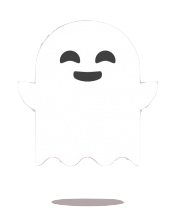
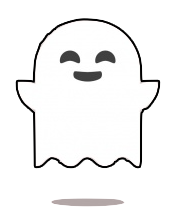
implement ghost  marker and add new image

Changed region(s): [[0.0877, 0.0841, 0.9357, 0.785], [0.4678, 0.729, 0.6725, 0.785], [0.6725, 0.729, 0.7602, 0.757]]

diff --git a/src/components/containers/Map.js b/src/components/containers/Map.js
@@ -103,6 +103,15 @@ const MapWithAMarkerClusterer = compose(
           />
           ))}
       </MarkerClusterer>
+      {
+        props.ghost &&
+        <Marker
+          icon={{
+            url: 'https://firebasestorage.googleapis.com/v0/b/life-chasing.appspot.com/o/ghost.png?alt=media&token=3454b5e8-1ff4-447b-9b04-06680a098bfb',
+          }}
+          position={{ lat: props.ghostPosition.latitude, lng: props.ghostPosition.longitude }}
+        />
+      }
     </GoogleMap>));
 
 
@@ -139,7 +148,7 @@ class Map extends Component {
 
   componentDidMount() {
     this.GetLocationAndEatBean();
-    this.SetAlarm(0.5); // input is minutes
+    this.SetAlarm(0.1); // input is minutes, there are two parts of times need to be changed
 
     // disable back button
     window.onpopstate = () => {
@@ -180,7 +189,7 @@ class Map extends Component {
         } = this.state;
         const lat = position.coords.latitude;
         const lng = position.coords.longitude;
-        this.SetAlarm(1); // Reset time clock
+        this.SetAlarm(0.1); // there are two parts of times need to be changed
         this.props.eatBeans(lat, lng);
         this.props.calSpeed(lat, lng, new Date().getTime());
         let dist = Distance(lat, lng, destination.lat, destination.lng, 'K');
@@ -225,6 +234,8 @@ class Map extends Component {
                 interface={theInterface}
                 markers={this.props.beanMap.markers}
                 showDirections={mode === t('mode.semi')}
+                ghost={this.props.beanMap.ghost}
+                ghostPosition={this.props.beanMap.ghostPosition}
               />
               <MapDialog
                 id="start"
@@ -327,6 +338,11 @@ Map.propTypes = {
     gameStartDialog: PropTypes.bool.isRequired,
     gamePauseDialog: PropTypes.bool.isRequired,
     gameEndDialog: PropTypes.bool.isRequired,
+    ghost: PropTypes.bool.isRequired,
+    ghostPosition: PropTypes.arrayOf(PropTypes.shape({
+      latitude: PropTypes.number.isRequired,
+      longitude: PropTypes.number.isRequired,
+    })).isRequired,
     ghostCounter: PropTypes.number.isRequired,
     distance: PropTypes.number.isRequired,
     totalTime: PropTypes.number.isRequired,

diff --git a/src/reducers/reducer_beanMap.js b/src/reducers/reducer_beanMap.js
@@ -20,9 +20,9 @@ const initialState = {
   sportScore: 0,
   alarm: new Date().getTime(),
   markers: [],
-  markersTemp: [], // a copy of markers
   ghost: false,
   ghostCounter: 0,
+  ghostPosition: { longitude: 0, latitude: 0 },
   maxSpeed: 0,
   avgSpeed: 0,
   distance: 0, // Km
@@ -41,7 +41,6 @@ const beanMap = (state = initialState, action) => {
     case IMPORT_MARKERS:
       return Object.assign({}, state, {
         markers: action.payload,
-        markersTemp: action.payload,
       });
     case INIT_POSITION:
       return Object.assign({}, state, {
@@ -53,17 +52,6 @@ const beanMap = (state = initialState, action) => {
       return Object.assign({}, state, {
         markers: state.markers.filter((bean) => {
           // Eat Beans
-          let dist = Distance(bean.latitude, bean.longitude, action.latitude, action.longitude, 'K');
-          dist = Math.round(dist * 1000) / 1000; // 四捨五入
-          dist *= 1000; // 1 Km = 1000m
-          if (dist >= 5) {
-            return bean;
-          }
-          Counter += 1;
-          return false;
-        }),
-        markersTemp: state.markers.filter((bean) => {
-          // a copy for markers
           let dist = Distance(bean.latitude, bean.longitude, action.latitude, action.longitude, 'K');
           dist = Math.round(dist * 1000) / 1000; // 四捨五入
           dist *= 1000; // 1 Km = 1000m
@@ -184,13 +172,13 @@ const beanMap = (state = initialState, action) => {
       if (caught) {
         console.log(state.markersTemp);
         return Object.assign({}, state, {
-          markers: [...state.markersTemp, { longitude, latitude }],
+          ghostPosition: { longitude, latitude },
           ghostCounter: state.ghostCounter + 1,
           ghost: false,
         });
       }
       return Object.assign({}, state, {
-        markers: [...state.markersTemp, { id: 9999, longitude, latitude }],
+        ghostPosition: { longitude, latitude },
       });
     }
     default:
